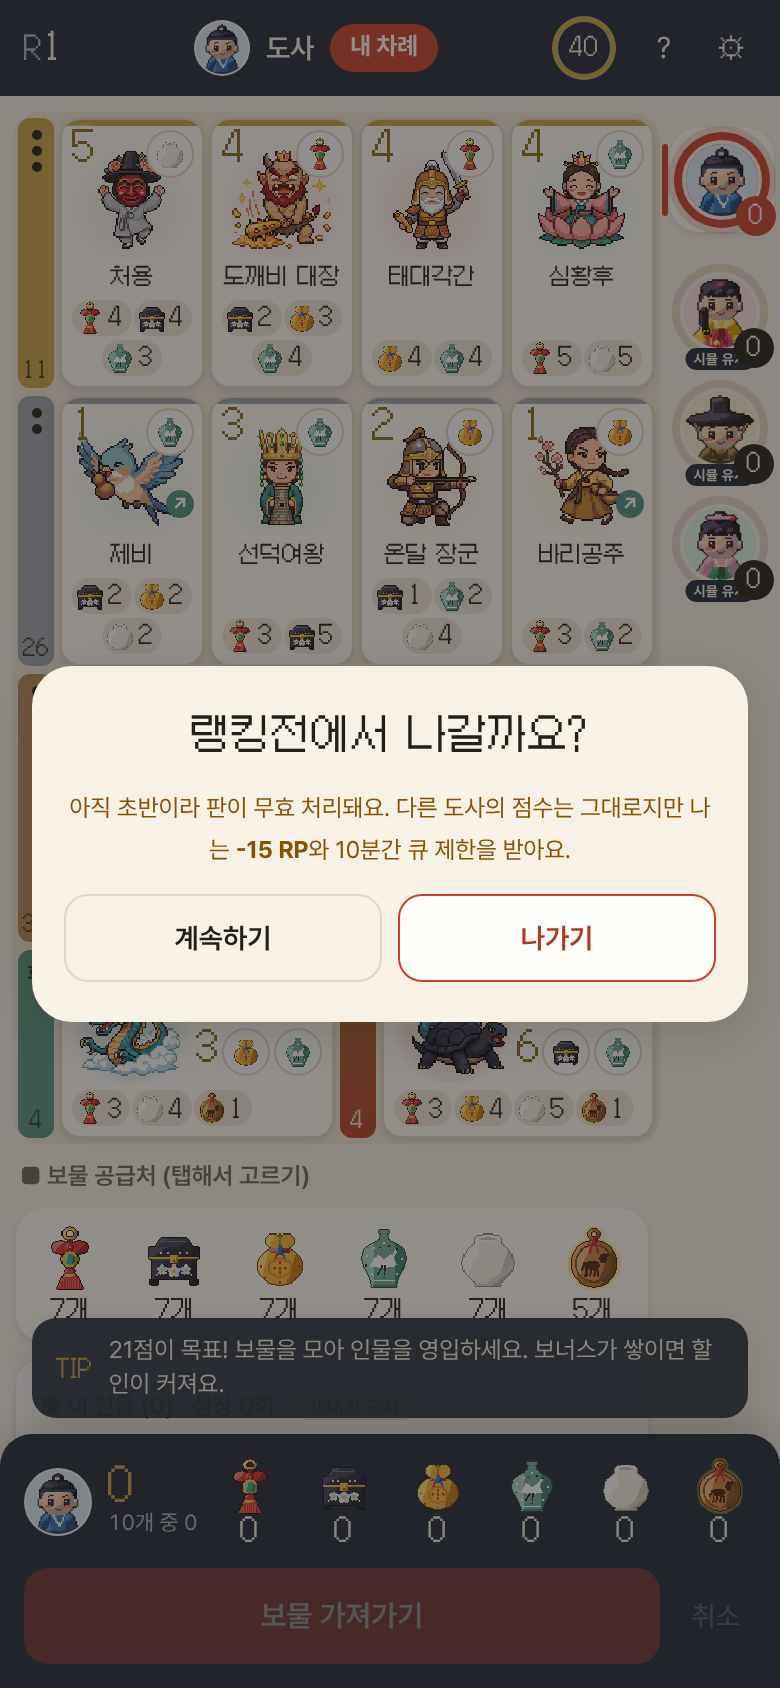
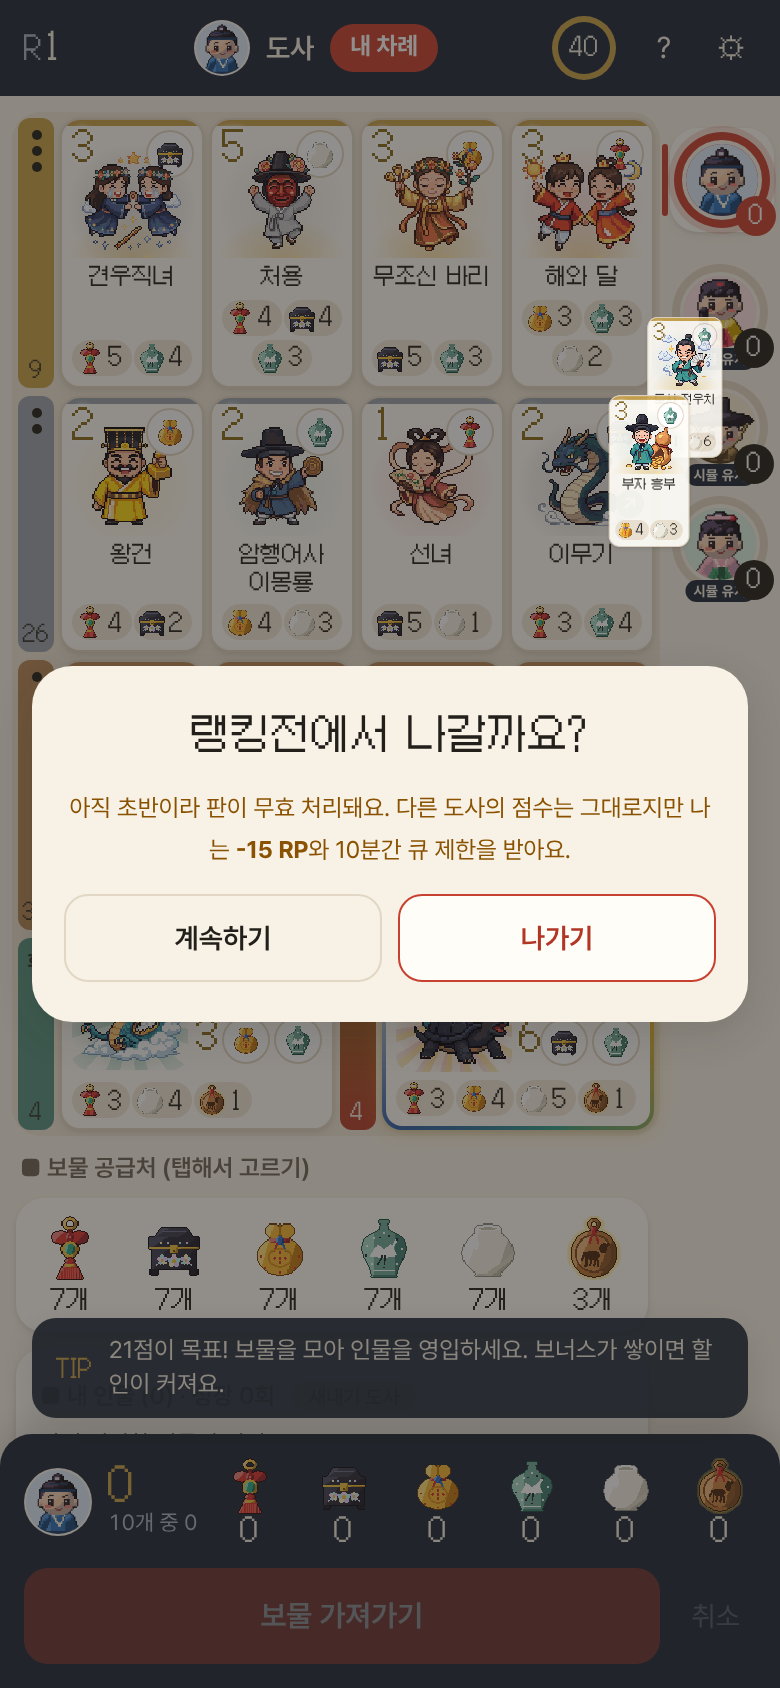
등급 특수 이펙트(3단계·희귀·전설)와 성장 성공 연출 추가
- 3단계 금빛 서기·불티, 희귀 청록 구름 회전+광택, 전설 오방색 단청 회전 테두리+햇살
- 성장 성공 시 전체 화면 연출(빛 폭발→다음 단계 등장, 조작 비차단, reduced-motion 대응)
- 처용 확정, 바리 꽃가지 확정(D19), QA 스크린샷

Claude-Session: https://claude.ai/code/session_01GVR4ZjkG5PuQSozm85KMCK

diff --git a/css/style.css b/css/style.css
@@ -584,3 +584,112 @@ button.orsv { cursor: pointer; width: 100%; text-align: left; font: inherit; }
 .tier-row.special .card .bonusicons { position: static; grid-area: meta; flex-direction: row; justify-self: end; align-self: start; margin-top: 1px; }
 .tier-row.special .card .cost { grid-area: cost; margin-top: 4px; justify-content: flex-start; }
 .tier-row.special .card.has-grow .grow { display: none; }
+
+/* ===== 등급 특수 이펙트 (D19): 후광 대신 등급마다 다른 기운 ===== */
+@property --spin { syntax: '<angle>'; inherits: false; initial-value: 0deg; }
+/* 3단계 — 서기(瑞氣): 발밑에서 금빛 기운이 숨 쉬듯 차오르고 불티가 떠오른다 */
+.card.t-3 .art::before {
+  content: ''; position: absolute; inset: 0; pointer-events: none;
+  background: radial-gradient(ellipse 62% 52% at 50% 100%, rgba(236,182,64,.62), rgba(236,182,64,.2) 55%, transparent 78%);
+  animation: seogi 2.8s ease-in-out infinite;
+}
+.card.t-3 .art::after {
+  content: ''; position: absolute; left: 0; right: 0; top: 0; height: 200%; pointer-events: none;
+  background:
+    radial-gradient(2.2px 2.2px at 18% 62%, #F6D57E 98%, transparent), radial-gradient(1.7px 1.7px at 74% 70%, #FFE9A8 98%, transparent),
+    radial-gradient(2.2px 2.2px at 46% 84%, #E9BF5C 98%, transparent), radial-gradient(1.7px 1.7px at 88% 92%, #FFF3C4 98%, transparent),
+    radial-gradient(1.7px 1.7px at 30% 96%, #F6D57E 98%, transparent), radial-gradient(2.2px 2.2px at 62% 54%, #FFE9A8 98%, transparent);
+  animation: emberUp 4.2s linear infinite; opacity: .9;
+}
+@keyframes seogi { 0%, 100% { opacity: .55; transform: scaleY(.9); transform-origin: 50% 100%; } 50% { opacity: 1; transform: scaleY(1.08); } }
+@keyframes emberUp { from { transform: translateY(0); } to { transform: translateY(-50%); } }
+
+/* 희귀 — 상서 구름: 청록 구름 기운이 등 뒤에서 천천히 돌고, 빛줄기가 카드를 훑는다 */
+.card.rare .art::before {
+  content: ''; position: absolute; left: 50%; top: 55%; width: 120px; height: 120px; margin: -60px 0 0 -60px; pointer-events: none;
+  background: repeating-conic-gradient(from var(--spin), rgba(78,160,140,.30) 0 14deg, transparent 14deg 30deg);
+  -webkit-mask: radial-gradient(circle, #000 18%, transparent 62%); mask: radial-gradient(circle, #000 18%, transparent 62%);
+  animation: auraSpin 9s linear infinite;
+}
+.card.rare::after, .card.legend::after {
+  content: ''; position: absolute; inset: 0; pointer-events: none; z-index: 2; border-radius: inherit;
+  background: linear-gradient(115deg, transparent 35%, rgba(255,255,255,.55) 48%, rgba(255,255,255,.1) 54%, transparent 62%);
+  background-size: 260% 100%; background-position: 130% 0; animation: sheen 4.6s ease-in-out infinite;
+}
+@keyframes auraSpin { to { --spin: 360deg; } }
+@keyframes sheen { 0%, 62% { background-position: 130% 0; } 100% { background-position: -40% 0; } }
+
+/* 전설 — 단청 광채: 오방색 테두리가 돌고, 금빛 햇살이 등 뒤에서 퍼진다 */
+.card.legend {
+  border: 2px solid transparent; padding: 6px 0 4px;
+  background: linear-gradient(var(--card), var(--card)) padding-box,
+    conic-gradient(from var(--spin), #C8402F, #E3B130, #2E9C8A, #2E5FA8, #F1EEE4, #C8402F) border-box;
+  animation: auraSpin 6s linear infinite; box-shadow: 0 0 10px rgba(227,177,48,.35), var(--sh-1);
+}
+.card.legend .art::before {
+  content: ''; position: absolute; left: 50%; top: 55%; width: 140px; height: 140px; margin: -70px 0 0 -70px; pointer-events: none;
+  background: repeating-conic-gradient(from var(--spin), rgba(240,196,80,.55) 0 7deg, rgba(200,64,47,.18) 7deg 12deg, transparent 12deg 22deg);
+  -webkit-mask: radial-gradient(circle, #000 14%, transparent 64%); mask: radial-gradient(circle, #000 14%, transparent 64%);
+  animation: auraSpin 14s linear infinite;
+}
+.card.legend .art::after {
+  content: ''; position: absolute; inset: 0; pointer-events: none;
+  background: radial-gradient(circle at 50% 58%, rgba(255,236,170,.5), transparent 46%); animation: seogi 2.4s ease-in-out infinite;
+}
+.card.rare .sprite, .card.legend .sprite, .card.t-3 .sprite { z-index: 1; }
+@media (prefers-reduced-motion: reduce) {
+  .card.t-3 .art::before, .card.t-3 .art::after, .card.rare .art::before, .card.legend .art::before, .card.legend .art::after,
+  .card.rare::after, .card.legend::after, .card.legend { animation: none; }
+}
+
+/* ===== 성장 성공 연출 ===== */
+.evofx {
+  position: fixed; inset: 0; z-index: 9000; display: flex; flex-direction: column; align-items: center; justify-content: center;
+  background: radial-gradient(circle at 50% 42%, rgba(255,240,196,.9) 0, rgba(120,84,30,.75) 28%, rgba(18,12,6,.9) 60%); pointer-events: none; /* 연출이 조작을 막지 않게: 2.9초 뒤 자동으로 사라짐 */
+  animation: evoBg .3s ease-out both;
+}
+.evo-stage { position: relative; width: 192px; height: 192px; }
+.evo-stage img { position: absolute; inset: 0; width: 192px; height: 192px; image-rendering: pixelated; }
+.evo-from { animation: evoFrom 1.05s ease-in forwards; }
+.evo-to { opacity: 0; animation: evoTo .9s cubic-bezier(.2,1.6,.4,1) .95s forwards; }
+.evo-rays {
+  position: absolute; left: 50%; top: 45%; width: 520px; height: 520px; margin: -260px 0 0 -260px; pointer-events: none; opacity: 0;
+  background: repeating-conic-gradient(from var(--spin), rgba(255,214,110,.55) 0 8deg, transparent 8deg 20deg);
+  -webkit-mask: radial-gradient(circle, #000 8%, transparent 62%); mask: radial-gradient(circle, #000 8%, transparent 62%);
+  animation: evoRaysIn .5s ease-out .9s forwards, auraSpin 8s linear infinite;
+}
+.evo-ring {
+  position: absolute; left: 50%; top: 45%; width: 40px; height: 40px; margin: -20px 0 0 -20px; border-radius: 50%; pointer-events: none;
+  border: 4px solid #FFF3C4; opacity: 0; animation: evoRing .7s ease-out .95s forwards;
+}
+.evo-sparks i {
+  position: absolute; left: 50%; top: 50%; width: 6px; height: 6px; margin: -3px; background: #FFE08A; opacity: 0;
+  box-shadow: 0 0 6px #FFC93C; transform: rotate(var(--a)) translateY(0);
+  animation: evoSpark .8s ease-out calc(1s + var(--dl)) forwards;
+}
+.evo-sparks i:nth-child(3n) { background: #F28B6E; box-shadow: 0 0 6px #E8573A; }
+.evo-sparks i:nth-child(4n) { background: #8FD9C4; box-shadow: 0 0 6px #2E9C8A; }
+.evo-txt { position: relative; margin-top: 10px; padding: 8px 22px 10px; border-radius: 14px; background: rgba(18,12,6,.72); box-shadow: 0 0 0 1px rgba(255,224,138,.5); text-align: center; color: #fff; text-shadow: 0 2px 0 rgba(0,0,0,.5); opacity: 0; animation: evoTxt .5s ease-out 1.25s forwards; }
+.evo-txt small { display: block; font-size: 12px; opacity: .85; }
+.evo-txt b { display: block; font-family: var(--f-pixel); font-size: 22px; font-weight: normal; color: #FFE7A0; }
+.evo-txt span { display: inline-block; margin-top: 4px; font-family: var(--f-pixel); font-size: 18px; letter-spacing: .1em; }
+@keyframes evoBg { from { opacity: 0; } }
+@keyframes evoFrom {
+  0% { filter: brightness(1); transform: scale(1); }
+  45% { filter: brightness(1.6) drop-shadow(0 0 8px #fff); transform: scale(1.04); }
+  70% { filter: brightness(4) drop-shadow(0 0 14px #fff); transform: scale(.98) translateY(-2px); }
+  100% { filter: brightness(10) drop-shadow(0 0 24px #fff); transform: scale(.6); opacity: 0; }
+}
+@keyframes evoTo {
+  0% { opacity: 1; transform: scale(.4); filter: brightness(8) drop-shadow(0 0 20px #fff); }
+  55% { transform: scale(1.14); filter: brightness(1.6) drop-shadow(0 0 10px #FFE08A); }
+  100% { opacity: 1; transform: scale(1); filter: brightness(1) drop-shadow(0 0 6px rgba(255,224,138,.8)); }
+}
+@keyframes evoRaysIn { to { opacity: 1; } }
+@keyframes evoRing { 0% { opacity: 1; transform: scale(.5); } 100% { opacity: 0; transform: scale(7); border-width: 1px; } }
+@keyframes evoSpark { 0% { opacity: 1; transform: rotate(var(--a)) translateY(0) scale(1); } 100% { opacity: 0; transform: rotate(var(--a)) translateY(calc(var(--r) * -1.6)) scale(.4); } }
+@keyframes evoTxt { from { opacity: 0; transform: translateY(10px); } to { opacity: 1; transform: none; } }
+@media (prefers-reduced-motion: reduce) {
+  .evofx *, .evofx { animation-duration: .01ms !important; animation-delay: 0s !important; }
+  .evo-from { display: none; } .evo-to, .evo-txt { opacity: 1; }
+}

diff --git a/src/ui/view.js b/src/ui/view.js
@@ -326,6 +326,20 @@ export function aiToastHTML(ctrl) {
   return `<div class="aitoast"><span class="who">${p.isAI ? aiPrefix(ctrl) : ''}${esc(p.name)}</span><span class="what">${body}</span></div>`;
 }
 
+// 성장 성공 연출: 이전 인물이 빛에 휩싸였다가 다음 단계 인물로 터져 나온다 (CSS .evofx)
+export function evolveFxHTML(from, to) {
+  const sparks = Array.from({ length: 14 }, (_, i) => `<i style="--a:${(i * 360) / 14}deg;--r:${46 + (i % 3) * 14}px;--dl:${(i % 4) * 40}ms"></i>`).join('');
+  return `<div class="evofx" role="status" aria-live="polite">
+    <div class="evo-rays"></div><div class="evo-ring"></div>
+    <div class="evo-stage">
+      <img class="evo-from" src="${pokeSrc(from.id)}" alt="">
+      <img class="evo-to" src="${animSrc(to.id)}" onerror="this.onerror=null;this.src='${pokeSrc(to.id)}'" alt="${to.name}">
+      <div class="evo-sparks">${sparks}</div>
+    </div>
+    <div class="evo-txt"><small>${from.name}</small><b>${to.name}</b><span>성장!</span></div>
+  </div>`;
+}
+
 // ---------- sheet + overlays ----------
 
 function oppSheetHTML(p, ctrl) {

diff --git a/src/ui/main.js b/src/ui/main.js
@@ -291,7 +291,19 @@ function renderAchvToast() {
   if (a) achvToastTimer = setTimeout(() => { achvToasts = achvToasts.slice(1); renderAchvToast(); }, 3000);
 }
 
+let evoFxTimer = 0;
+function showEvolveFx(fromId, toId) {
+  const from = cardsById.get(fromId), to = cardsById.get(toId);
+  if (!from || !to) return;
+  document.querySelector('.evofx')?.remove();
+  document.body.insertAdjacentHTML('beforeend', V.evolveFxHTML(from, to));
+  const el = document.body.lastElementChild;
+  clearTimeout(evoFxTimer);
+  evoFxTimer = setTimeout(() => el.remove(), 2900);
+}
+
 const hooks = {
+  onEvolve: (fromId, toId) => showEvolveFx(fromId, toId),
   onCatch: (cardId, kind) => {
     recordCatch(storage, cardId, kind);
     const card = cardsById.get(cardId);

diff --git a/docs/design/decisions.md b/docs/design/decisions.md
@@ -20,3 +20,4 @@
 | D16 | 2026-10-14 | 한국 로스터 v2-final 병합: v2 12장 교체 + 김수로 라인→홍길동 2단 + t3-015 처용 + 사신 4장(주작 rare-002, 청룡 rare-004, 백호 legend-001, 현무 legend-004; 저승사자·호랑이·불가사리·해태 제거). 수치·슬롯·룰 불변 | roster-korea.json/md, roster-final-art-requests.md |
 | D17 | 2026-10-15 | 카드 인물 90장 PixelLab 생성 도트로 교체(구독 Tier 1). 화풍 기준 = 기존 생성기 이순신·세종·도깨비 3장. 카드 속 대기 모션 = PixelLab v3 4프레임 루프 + CSS 미세 흔들림, 얼굴 변형 등 불량은 1px 숨쉬기로 대체 | `docs/art/pixellab-plan.md`, `tools/pixellab/` |
 | D18 | 2026-10-15 | 카드 인물 차별화: 왕관·관복 인물 16명 얼굴·대표 소품 재디자인, 90장 인물별 표정, 인물 80장 역동적 자세. 사물 8장은 1차본 유지 | 사용자 피드백 3회 반영, `tools/pixellab/prompts.json` |
+| D19 | 2026-10-15 | 등급 특수 이펙트: 3단계=금빛 서기(瑞氣)·불티, 희귀=청록 상서 구름 회전+광택, 전설=오방색 단청 회전 테두리+금빛 햇살+광택(후광 폐기). 성장 성공 전체 화면 연출 추가. 처용 확정(t3-015), 무조신 바리 소품=꽃가지 | `css/style.css` 등급 이펙트·.evofx, `view.evolveFxHTML` |

diff --git a/docs/HANDOFF.md b/docs/HANDOFF.md
@@ -25,10 +25,8 @@
 - 작업 현황 대시보드: https://claude.ai/artifact/Chfo6uoUY7dAEKr4tFxFgw (비공개)
 
 ## 사용자 결정 대기
-0. 3단계·희귀·전설 후광 링 복원 여부(새 도트엔 없음, 세종·산신령·궁예만 후광)
-1. t3-015 처용 확정 vs 산군(호랑이) — 현재 처용탈 쓴 처용으로 제작됨
-2. 무조신 바리 두 번째 소품: 꽃가지(현재) vs 부채
-3. 이모트 `emo_tiger`('호랑이 울음') 유지/교체
+1. 이모트 `emo_tiger`('호랑이 울음') 유지/교체
+(처용 확정·바리 꽃가지 확정·후광 대신 등급 이펙트 = D19)
 
 ## 사용자 측 미해결
 - Firebase 규칙에 `ohsp-rooms` 추가(또는 새 Firebase 프로젝트) — 온라인 매칭 전제
